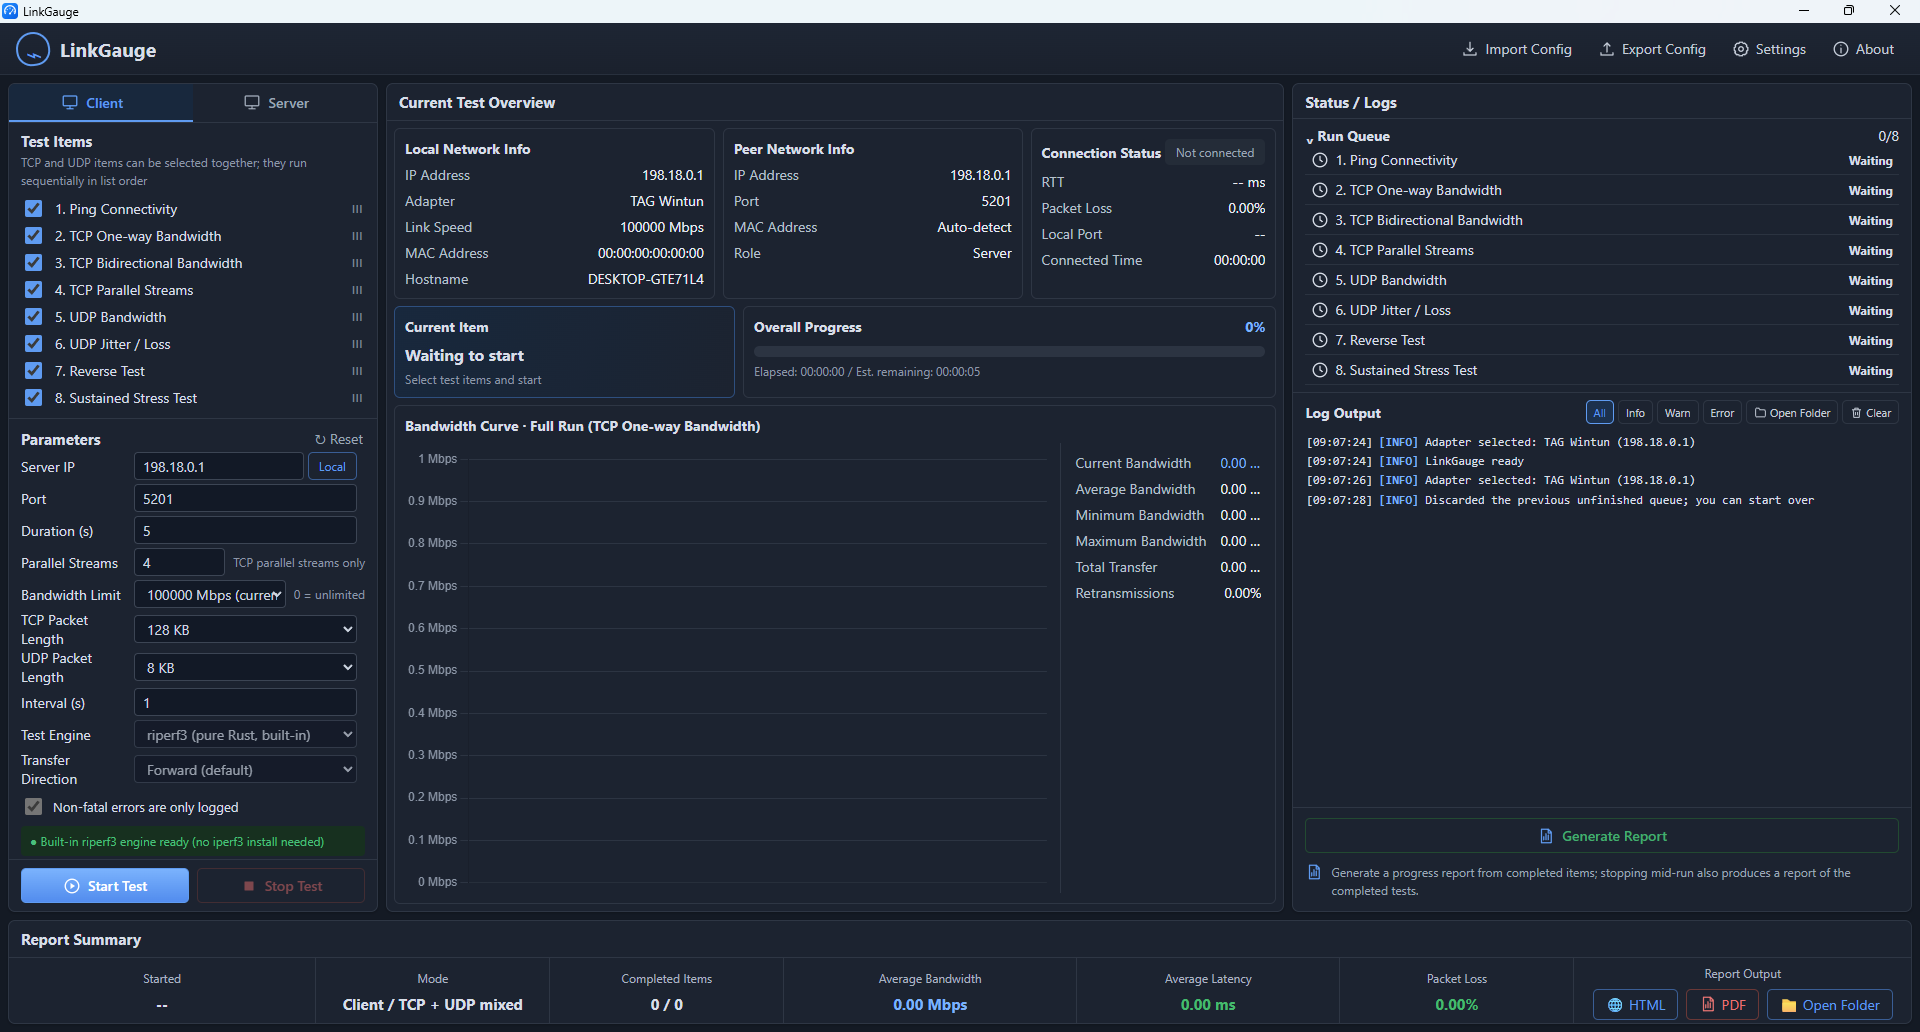
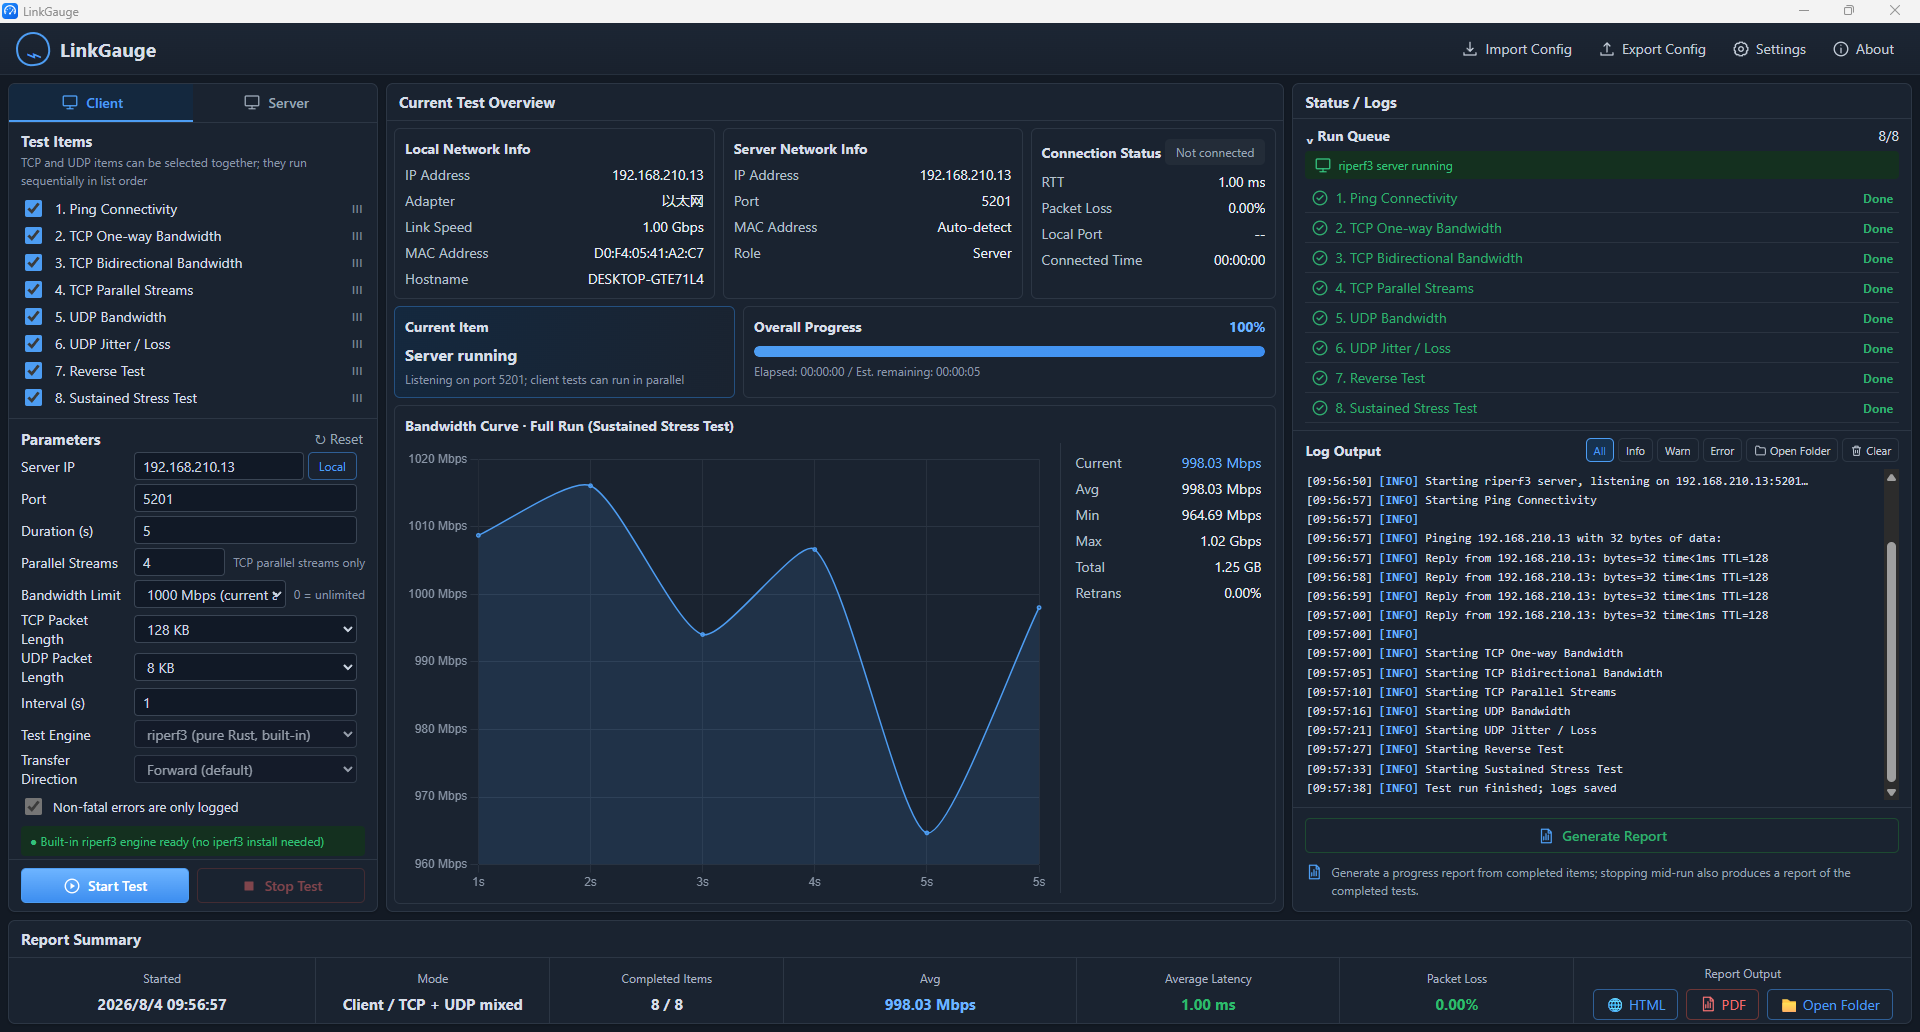
fix: server overview status events, client local port display
- local port status event handled before sessionId matching: loopback connects are so fast the event can arrive before invoke('start_test') returns, and the port is emitted only once per connection, so sessionId matching dropped it permanently
- server status payload guarded with safe_f64 (NaN/Infinity produce invalid JSON that silently breaks the whole status event, freezing peer info, completed count, and the live server curve); parse failures now log a WARN instead of being swallowed
- updated English screenshot

diff --git a/src/App.vue b/src/App.vue
@@ -370,6 +370,20 @@ function simulateTask(taskId: string) {
 }
 
 function handleEvent(event: BackendEvent) {
+  // 客户端本地端口状态事件：必须在会话匹配之前处理——同机测试 connect 极快，
+  // 该事件可能早于 invoke('start_test') 的返回值（sessionId 尚未更新）到达，
+  // 按 sessionId 匹配会被丢弃，而端口只在连接时发出一次，错过就无法显示。
+  // 客户端任务的 taskId 不会是 'server'，据此与服务端心跳 status 区分。
+  if (event.type === 'status' && event.message && event.taskId !== 'server') {
+    try {
+      const s = JSON.parse(event.message) as { localPort?: number }
+      // 控制连接建立即标记已连接（不必等第一个指标输出周期），本地端口同时更新
+      if (typeof s.localPort === 'number') {
+        clientLocalPort.value = s.localPort
+        if (!connected.value) { connected.value = true; log('INFO', t('log.connected')) }
+      }
+    } catch { /* ignore */ }
+  }
   const isClient = event.sessionId === clientSession.value
   const isServer = event.sessionId === serverSession.value
   if (!isClient && !isServer) return
@@ -395,7 +409,7 @@ function handleEvent(event: BackendEvent) {
         if (s.serving && typeof s.bandwidthMbps === 'number') {
           serverPoints.value.push({ second: s.uptime ?? 0, bandwidthMbps: s.bandwidthMbps, transferMb: s.transferMb ?? 0, jitterMs: s.jitterMs ?? 0, lossPercent: s.lossPercent ?? 0, retransmits: s.retransmits ?? 0 })
         }
-      } catch { /* ignore */ }
+      } catch (e) { log('WARN', `服务端状态解析失败：${e}（${event.message}）`) }
     }
     if (event.type === 'complete') { serverRunning.value = false; serverSession.value = ''; serverServing.value = false; serverPeerIp.value = ''; serverPeerPort.value = 0; log('INFO', t('log.serverStopped', { reason: event.status === 'stopped' ? t('log.stoppedManual') : t('log.stoppedEnded') })) }
     if (event.type === 'error') { serverRunning.value = false; serverSession.value = ''; serverServing.value = false; serverPeerIp.value = ''; serverPeerPort.value = 0; log('ERROR', event.message || t('err.serverExited')); errorDialog.value = { title: t('err.serverError'), message: event.message || t('err.serverExited') } }
@@ -403,16 +417,6 @@ function handleEvent(event: BackendEvent) {
   }
   // 客户端事件：停止或结束后的事件忽略
   if (!clientRunning.value) return
-  if (event.type === 'status' && event.message) {
-    try {
-      const s = JSON.parse(event.message) as { localPort?: number }
-      // 控制连接建立即标记已连接（不必等第一个指标输出周期），本地端口同时更新
-      if (typeof s.localPort === 'number') {
-        clientLocalPort.value = s.localPort
-        if (!connected.value) { connected.value = true; log('INFO', t('log.connected')) }
-      }
-    } catch { /* ignore */ }
-  }
   if (event.type === 'metric' && event.metric) { points.value.push(event.metric); connected.value = true; if (event.taskId === 'ping' && event.metric.jitterMs) summary.pingAverage = event.metric.jitterMs }
   if (event.type === 'complete') completeCurrent(event.status || 'success')
   if (event.type === 'error') failCurrent(event.message || t('err.execFailed'))

diff --git a/src-tauri/src/runner.rs b/src-tauri/src/runner.rs
@@ -390,6 +390,16 @@ async fn run_engine_client(
 // riperf3 服务端任务：持续监听直到手动停止
 // ---------------------------------------------------------------------------
 
+/// 数值防护：NaN / Infinity 无法表示为 JSON 数字，直接格式化会产生非法 JSON
+/// （前端 JSON.parse 失败后整条 status 事件被丢弃，服务端概览全部不刷新），统一归零
+fn safe_f64(value: f64) -> f64 {
+    if value.is_finite() {
+        value
+    } else {
+        0.0
+    }
+}
+
 /// 服务端最近一个输出周期的统计快照（on_interval 回调写入，心跳任务读取并广播给前端）；
 /// 同时记录最近一次连接的客户端地址（服务端概览「对端=客户端」的数据源）
 #[derive(Default, Clone)]
@@ -458,10 +468,10 @@ async fn run_engine_server(
             let mut guard = latest.lock().unwrap();
             let peer = guard.as_ref().map(|s| (s.peer_ip.clone(), s.peer_port)).unwrap_or_default();
             *guard = Some(ServerInterval {
-                bandwidth_mbps: sum.bits_per_second / 1_000_000.0,
-                transfer_mb: sum.bytes as f64 / 1_000_000.0,
-                jitter_ms: sum.jitter_ms.unwrap_or(0.0),
-                loss_percent: sum.lost_percent.unwrap_or(0.0),
+                bandwidth_mbps: safe_f64(sum.bits_per_second / 1_000_000.0),
+                transfer_mb: safe_f64(sum.bytes as f64 / 1_000_000.0),
+                jitter_ms: safe_f64(sum.jitter_ms.unwrap_or(0.0)),
+                loss_percent: safe_f64(sum.lost_percent.unwrap_or(0.0)),
                 retransmits: sum.retransmits.unwrap_or(0).max(0) as u64,
                 peer_ip: peer.0,
                 peer_port: peer.1,
@@ -644,7 +654,11 @@ async fn run_engine_server(
                 let stats = match &snapshot {
                     Some(s) => format!(
                         r#","bandwidthMbps":{},"transferMb":{},"jitterMs":{},"lossPercent":{},"retransmits":{}"#,
-                        s.bandwidth_mbps, s.transfer_mb, s.jitter_ms, s.loss_percent, s.retransmits
+                        safe_f64(s.bandwidth_mbps),
+                        safe_f64(s.transfer_mb),
+                        safe_f64(s.jitter_ms),
+                        safe_f64(s.loss_percent),
+                        s.retransmits
                     ),
                     None => String::new(),
                 };
